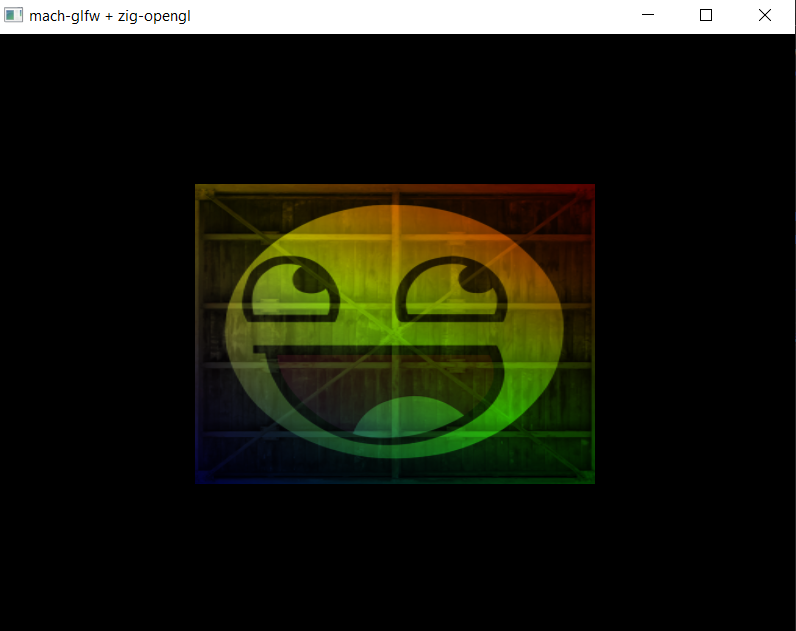
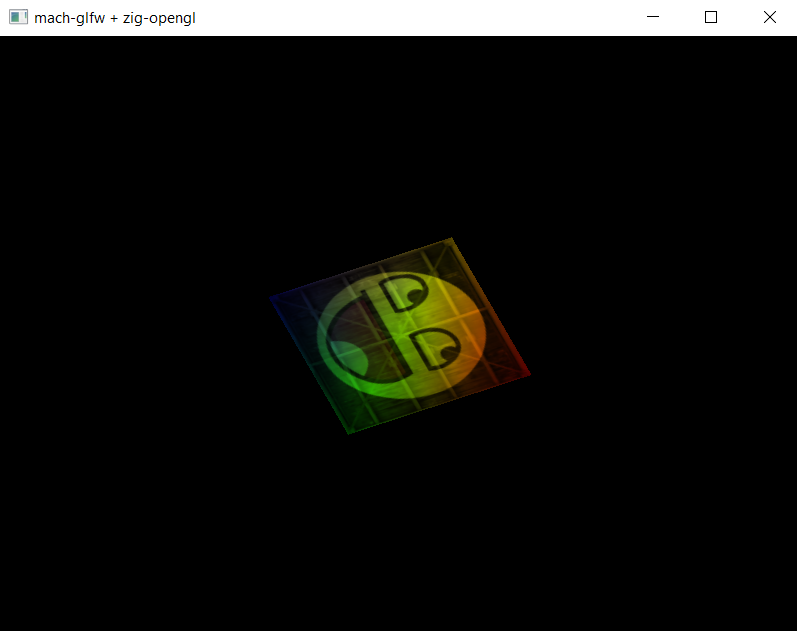
update readme

Changed region(s): [[0.2412, 0.271, 0.7538, 0.7829], [0.0, 0.0, 1.0, 1.0]]

diff --git a/README.md b/README.md
@@ -31,4 +31,6 @@ Sample programs can be used together with the reference book: [Learn OpenGL - Gr
 <br /><a href="src/getting_started/textures"><img src="src/getting_started/textures/image.png" alt="textures" height="200"></a>
 
 ### Transformations
-    - WIP...
+- [**Transformations**](src/getting_started/transformations/): Apply a transformation matrix to vertex data <br />
+`zig build transformations-run`
+<br /><a href="src/getting_started/transformations"><img src="src/getting_started/transformations/image.png" alt="transformations" height="200"></a>
